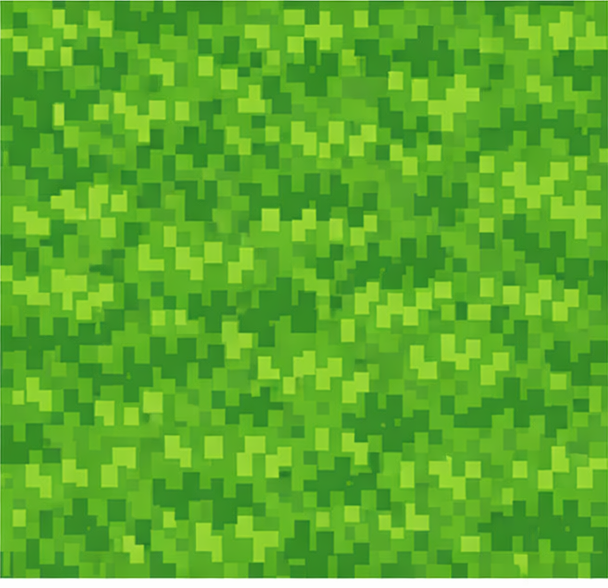
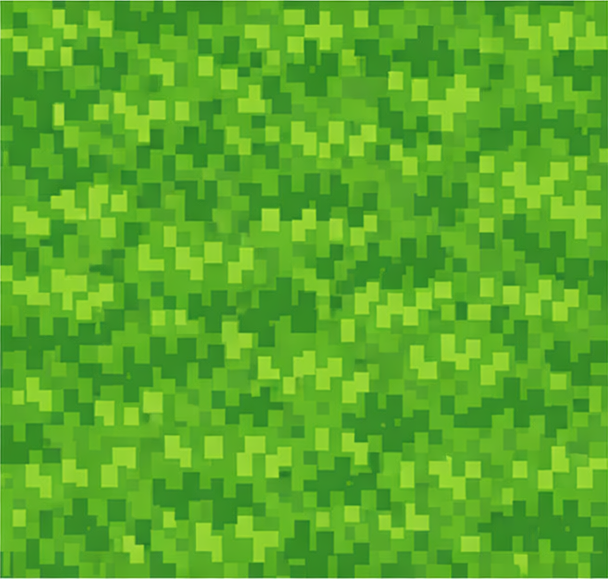
Fix grass tile seam and auto-advance to next level
- Crop 9 white rows from bottom of grass tile eliminating visible seam
- Level 1 completion auto-transitions to Level 2 after 4s countdown
- Replace big level complete modal with slim banner showing countdown

diff --git a/src/scenes/UIScene.js b/src/scenes/UIScene.js
@@ -204,74 +204,25 @@ class UIScene extends Phaser.Scene {
   }
 
   _makeLevelCompleteOverlay(cx, cy) {
-    const W = CANVAS_WIDTH, H = CANVAS_HEIGHT;
-    const container = this.add.container(cx, cy);
+    const W = CANVAS_WIDTH;
+    const container = this.add.container(cx, -40);
 
-    const dim = this.add.graphics();
-    dim.fillStyle(0x000000, 0.82);
-    dim.fillRect(-W / 2, -H / 2, W, H);
+    const bg = this.add.graphics();
+    bg.fillStyle(0x000000, 0.75);
+    bg.fillRoundedRect(-280, -38, 560, 76, 10);
+    bg.lineStyle(2, 0xf1c40f, 0.8);
+    bg.strokeRoundedRect(-280, -38, 560, 76, 10);
 
-    // Stars decoration
-    const stars = this.add.graphics();
-    [-120, 0, 120].forEach((x, idx) => {
-      const scale = idx === 1 ? 1 : 0.75;
-      stars.fillStyle(0xffd700, 1);
-      for (let s = 0; s < 5; s++) {
-        const angle = (s * 72 - 90) * Math.PI / 180;
-        const r = 22 * scale;
-        const ri = r * 0.4;
-        const pts = [];
-        for (let p = 0; p < 10; p++) {
-          const a = (p * 36 - 90) * Math.PI / 180;
-          const rad = p % 2 === 0 ? r : ri;
-          pts.push(x + Math.cos(a) * rad, -165 + Math.sin(a) * rad);
-        }
-        stars.fillPoints(pts.map((v, i) => ({ x: pts[i * 2], y: pts[i * 2 + 1] })).filter((_, i) => i < 10), true);
-      }
-    });
+    const titleTxt = this.add.text(-160, 0, '⭐  LEVEL COMPLETE!', {
+      fontSize: '26px', fontFamily: 'Arial Black', color: '#f1c40f',
+      stroke: '#000', strokeThickness: 4,
+    }).setOrigin(0, 0.5);
 
-    const titleTxt = this.add.text(0, -100, '⭐  LEVEL COMPLETE!', {
-      fontSize: '50px', fontFamily: 'Arial Black', color: '#f1c40f',
-      stroke: '#000', strokeThickness: 6
-    }).setOrigin(0.5);
+    this.levelCompleteCountdownTxt = this.add.text(180, 0, '', {
+      fontSize: '18px', fontFamily: 'Arial', color: '#95a5a6',
+    }).setOrigin(0, 0.5);
 
-    this.levelCompleteSubText = this.add.text(0, -30, '', {
-      fontSize: '22px', fontFamily: 'Arial Black', color: '#ecf0f1'
-    }).setOrigin(0.5);
-
-    const subTxt = this.add.text(0, 14, 'Get ready for a harder path...', {
-      fontSize: '16px', fontFamily: 'Arial', color: '#95a5a6'
-    }).setOrigin(0.5);
-
-    // Next Level button
-    const nextBtn = this.add.text(0, 75, '▶▶  NEXT LEVEL', {
-      fontSize: '24px', fontFamily: 'Arial Black', color: '#ffffff',
-      backgroundColor: '#2980b9', padding: { x: 28, y: 14 }
-    }).setOrigin(0.5).setInteractive({ useHandCursor: true });
-
-    nextBtn.on('pointerover', () => nextBtn.setStyle({ backgroundColor: '#3498db' }));
-    nextBtn.on('pointerout',  () => nextBtn.setStyle({ backgroundColor: '#2980b9' }));
-    nextBtn.on('pointerdown', () => {
-      const gs = this.scene.get('GameScene');
-      const nextLevelIndex = gs ? gs.levelIndex + 1 : 1;
-      this.scene.stop('GameScene');
-      this.scene.stop('UIScene');
-      this.scene.start('GameScene', { levelIndex: nextLevelIndex });
-    });
-
-    // Back to menu button
-    const menuBtn = this.add.text(0, 145, 'Return to Menu', {
-      fontSize: '15px', fontFamily: 'Arial', color: '#636e72'
-    }).setOrigin(0.5).setInteractive({ useHandCursor: true });
-
-    menuBtn.on('pointerover', () => menuBtn.setStyle({ color: '#95a5a6' }));
-    menuBtn.on('pointerout',  () => menuBtn.setStyle({ color: '#636e72' }));
-    menuBtn.on('pointerdown', () => {
-      this.scene.stop('GameScene');
-      this.scene.start('MenuScene');
-    });
-
-    container.add([dim, titleTxt, this.levelCompleteSubText, subTxt, nextBtn, menuBtn]);
+    container.add([bg, titleTxt, this.levelCompleteCountdownTxt]);
     return container;
   }
 
@@ -315,10 +266,12 @@ class UIScene extends Phaser.Scene {
     this._updateTowerInfo(selTower, gold);
 
     // Show correct overlay
-    if (levelComplete && this.levelCompleteSubText) {
-      const nextDef = LEVEL_DEFS[levelIndex + 1];
-      this.levelCompleteSubText.setText(nextDef ? `Up next: ${nextDef.name} — ${nextDef.subtitle}` : '');
+    if (levelComplete) {
       this.levelCompleteOverlay.setVisible(true);
+      const remaining = this.registry.get('nextLevelCountdown') ?? 4000;
+      if (this.levelCompleteCountdownTxt) {
+        this.levelCompleteCountdownTxt.setText(`Next level in ${Math.ceil(remaining / 1000)}s`);
+      }
     }
     if (gameOver) this.gameOverOverlay.setVisible(true);
     if (gameWon)  this.gameWonOverlay.setVisible(true);

diff --git a/src/scenes/GameScene.js b/src/scenes/GameScene.js
@@ -273,6 +273,27 @@ class GameScene extends Phaser.Scene {
     if (!this.waveActive) this.waveCountdown = 0;
   }
 
+  _scheduleNextLevel() {
+    const DELAY = 4000;
+    const nextIndex = this.levelIndex + 1;
+    this.registry.set('nextLevelCountdown', DELAY);
+
+    this.time.addEvent({
+      delay: 100,
+      repeat: (DELAY / 100) - 1,
+      callback: () => {
+        const remaining = (this.registry.get('nextLevelCountdown') ?? DELAY) - 100;
+        this.registry.set('nextLevelCountdown', Math.max(0, remaining));
+      },
+    });
+
+    this.time.delayedCall(DELAY, () => {
+      this.scene.stop('UIScene');
+      this.scene.stop('GameScene');
+      this.scene.start('GameScene', { levelIndex: nextIndex });
+    });
+  }
+
   // ─── Update loop ───────────────────────────────────────────────────────────
   update(time, delta) {
     if (this.gameOver || this.levelComplete || this.gameWon) return;
@@ -289,6 +310,7 @@ class GameScene extends Phaser.Scene {
           if (this.levelIndex + 1 < LEVEL_DEFS.length) {
             this.levelComplete = true;
             this.registry.set('levelComplete', true);
+            this._scheduleNextLevel();
           } else {
             this.gameWon = true;
             this.registry.set('gameWon', true);
@@ -338,6 +360,7 @@ class GameScene extends Phaser.Scene {
         if (this.levelIndex + 1 < LEVEL_DEFS.length) {
           this.levelComplete = true;
           this.registry.set('levelComplete', true);
+          this._scheduleNextLevel();
         } else {
           this.gameWon = true;
           this.registry.set('gameWon', true);
